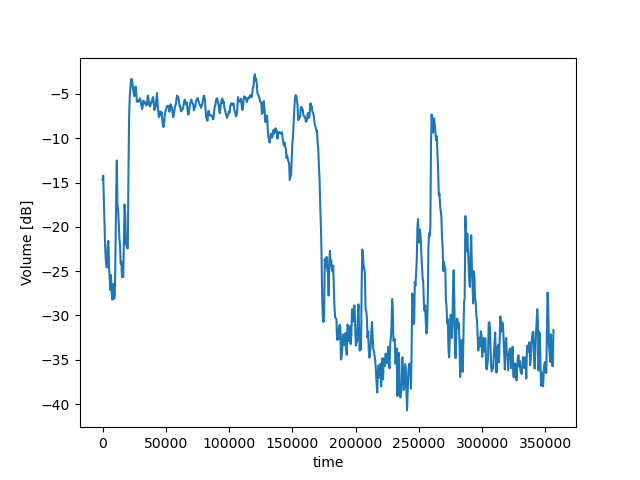
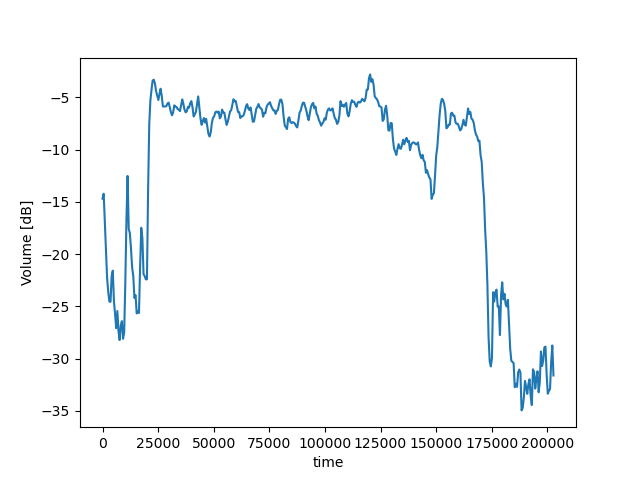
finish ex09

diff --git a/ex09/main.py b/ex09/main.py
@@ -13,7 +13,7 @@ import numpy as np
 import librosa
 
 # choose from ["catena", "separato"]
-data_type = "separato"
+data_type = "catena"
 print("data type:", data_type)
 
 # サンプリングレート
@@ -35,6 +35,7 @@ size_shift = 16000 / 100	# 0.01 sec (10 msec) because 1 sec has size of 16000
 
 # スペクトログラムを保存するlist
 volume_data = []
+speaking_area = []
 
 # size_shift分ずらしながらsize_frame分のデータを取得
 # np.arange関数はfor文で辿りたい数値のリストを返す
@@ -53,6 +54,9 @@ for i in np.arange(0, len(x)-size_frame, size_shift):
   # convert RMS into volume [dB]
   volume_dB = 20 * np.log10(rms)
 
+  if volume_dB > -7:
+    speaking_area.append(i / SR)
+
 	# 低周波の部分のみを拡大したい場合
 	# 例えば、500Hzまでを拡大する
 	# また、最後のほうの画像描画処理において、
@@ -64,18 +68,21 @@ for i in np.arange(0, len(x)-size_frame, size_shift):
 	# 計算した対数振幅スペクトログラムを配列に保存
   volume_data.append(volume_dB)
 
+
+# Show speaking_area
+print("speaking_area is", [speaking_area[0], speaking_area[-1]])
+print(volume_data)
+
 #
 # スペクトログラムを画像に表示・保存
 #
 
 fig = plt.figure()
-x_data = range(0, size_frame*len(volume_data), size_frame)
-# x_data = range(len(volume_data))
+x_data = np.arange(0, len(volume_data)*size_shift/SR, size_shift/SR)
 
 # スペクトログラムを描画
-plt.xlabel('time')		# x軸のラベルを設定
+plt.xlabel('time [s]')		# x軸のラベルを設定
 plt.ylabel('Volume [dB]')				# y軸のラベルを設定
-# plt.xlim([0, SR])					# x軸の範囲を設定
 plt.plot(x_data, volume_data)			# 描画
 
 # 表示

diff --git a/ex09/readme.md b/ex09/readme.md
@@ -1,2 +1,6 @@
 # 演習9
-音量に対して適切な閾値を設定し，発話区間(話している区間) を自動で抽出せよ.発話区間の開始と終了の時間情報を(コマンドプロンプト，ターミナルを含む)何らかの形式で表示できればよい.
+音量に対して適切な閾値を設定し，発話区間(話している区間) を自動で抽出せよ.  
+発話区間の開始と終了の時間情報を(コマンドプロンプト，ターミナルを含む)何らかの形式で表示できればよい.
+
+## 方針
+データ処理後に発話区間の時間データをターミナルに出力

diff --git a/ex01/readme.md b/ex01/readme.md
@@ -1,0 +1,5 @@
+# 演習1
+
+## files
+- `catena.wav`: 4.0 sec
+- `separato.wav`: 5.0 sec
